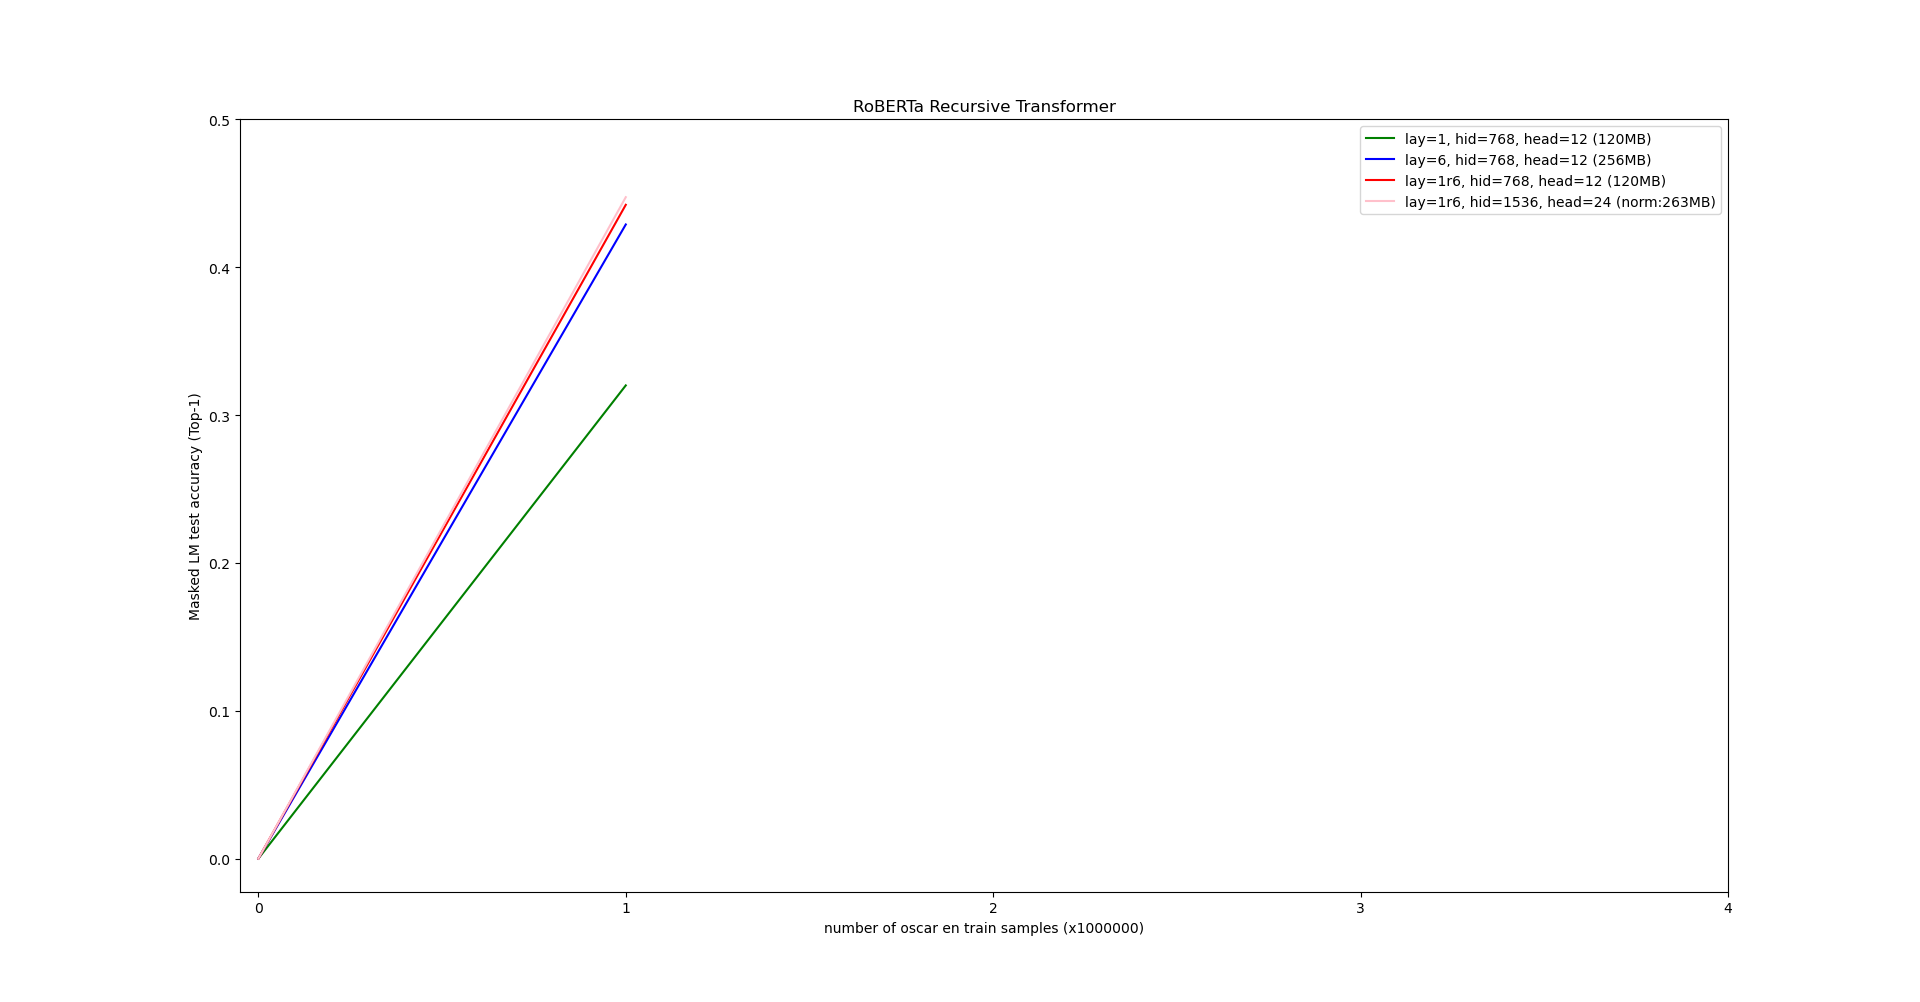
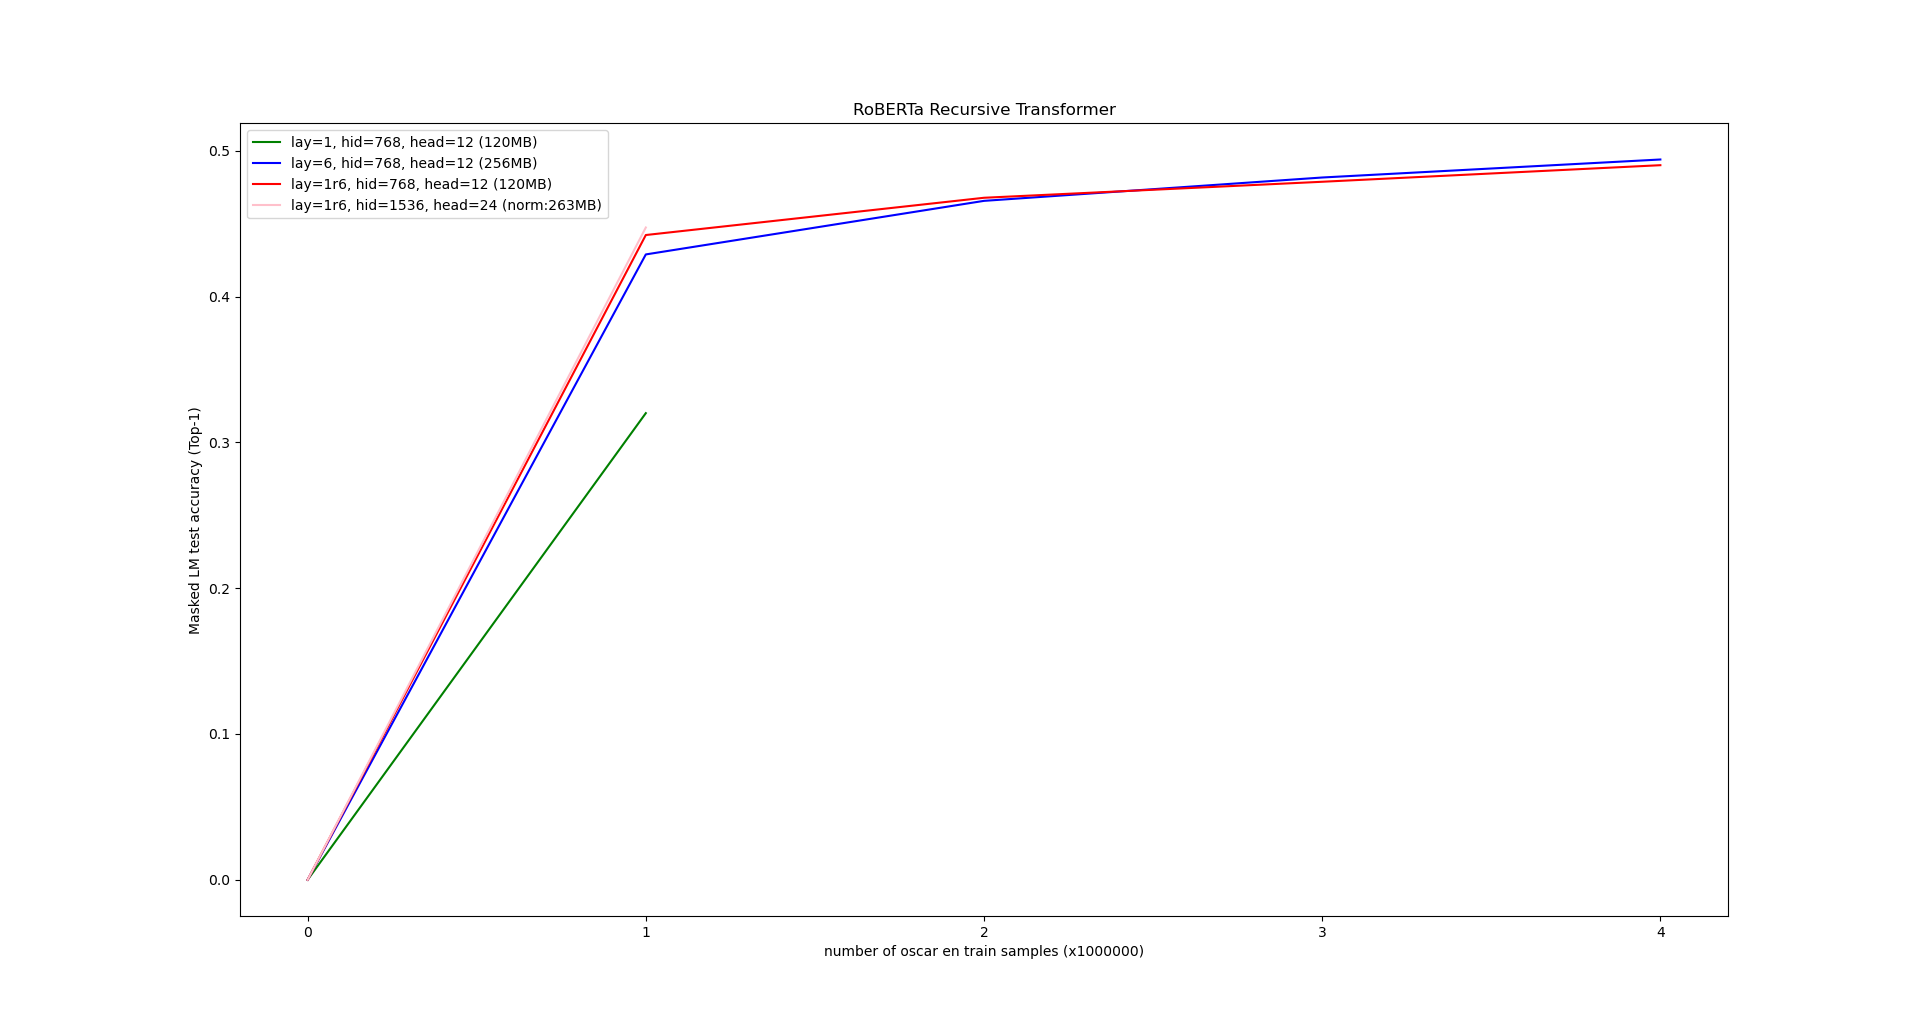
update RobertaRecursiveTransformer graph

diff --git a/SBNLPpt/SBNLPpt_globalDefs.py b/SBNLPpt/SBNLPpt_globalDefs.py
@@ -27,6 +27,29 @@ else:
 import math
 import pynvml
 
+
+#recursive algorithm selection:
+useAlgorithmTransformer = True
+useAlgorithmRNN = False
+useAlgorithmSANI = False
+useAlgorithmGIA = False
+
+#state selection;
+statePreprocessDataset = False	#only required once
+stateTrainTokeniser = False	#only required once
+stateTrainDataset = True
+stateTestDataset = True	#requires reserveValidationSet
+
+#training data selection;
+trainStartEpoch = 0	#start epoch of training (if continuing a training regime set accordingly >0)	#if trainStartEpoch=0 and trainStartDataFile=0 will recreate model, if trainStartEpoch>0 or trainStartDataFile>0 will load existing model
+trainNumberOfEpochs = 1	#default: 10	#number of epochs to train (for production typically train x epochs at a time)
+trainStartDataFile = 0	#default: 0	#start data file to train (if continuing a training regime set accordingly >0)	#if trainStartEpoch=0 and trainStartDataFile=0 will recreate model, if trainStartEpoch>0 or trainStartDataFile>0 will load existing model
+trainNumberOfDataFiles = 100	#15	#100	#number of data files to train (for production typically train x dataFiles at a time)	#< datasetNumberOfDataFiles (30424) * trainSplitFraction
+testNumberOfDataFiles = 1	#10
+
+
+sortDataFilesByName = True	#orig; False
+
 debugCompareTokenMemoryBankPerformance = False
 debugCreateOrderedDatasetFiles = False	#create data files comprising documents of sufficient length for createOrderedDataset
 debugPrintPaths = False
@@ -35,30 +58,11 @@ debugDoNotTrainModel = False
 debugPrintLowHiddenSize = False
 debugPrintMultipleModelAccuracy = False
 
-#recursive algorithm selection:
-useAlgorithmTransformer = True
-useAlgorithmRNN = False
-useAlgorithmSANI = False
-useAlgorithmGIA = False
-
-sortDataFilesByName = True	#orig; False
-
 #initialise (dependent vars);
 recursiveLayers = False
 memoryTraceBias = False
 simulatedDendriticBranches = False
 memoryTraceAtrophy = False
-
-statePreprocessDataset = False	#only required once
-stateTrainTokeniser = False	#only required once
-stateTrainDataset = True
-stateTestDataset = True	#requires reserveValidationSet
-
-trainStartEpoch = 0	#start epoch of training (if continuing a training regime set accordingly >0)	#if trainStartEpoch=0 and trainStartDataFile=0 will recreate model, if trainStartEpoch>0 or trainStartDataFile>0 will load existing model
-trainNumberOfEpochs = 1	#default: 10	#number of epochs to train (for production typically train x epochs at a time)
-trainStartDataFile = 0	#default: 0	#start data file to train (if continuing a training regime set accordingly >0)	#if trainStartEpoch=0 and trainStartDataFile=0 will recreate model, if trainStartEpoch>0 or trainStartDataFile>0 will load existing model
-trainNumberOfDataFiles = 100	#15	#100	#number of data files to train (for production typically train x dataFiles at a time)	#< datasetNumberOfDataFiles (30424) * trainSplitFraction
-testNumberOfDataFiles = 1	#10
 
 LRPdatabaseName = 'NLTK'	#wordnet
 fixNLTKwordListAll = True	#add additional auxiliary having possessive words not found in NLTK word lists; ["has", "having", "'s"]
@@ -398,7 +402,7 @@ trainSplitFraction = 0.9	#90% train data, 10% test data
 
 if(useAlgorithmTransformer):
 	batchSize = 8	#default: 8	#8 and 16 train at approx same rate (16 uses more GPU ram)	#depends on GPU RAM	#with 12GB GPU RAM, batchSize max = 16
-	learningRate = 1e-4
+	learningRate = 1e-4	#0.0001
 elif(useAlgorithmRNN):
 	batchSize = 8
 	learningRate = 1e-4

diff --git a/graph/RobertaRecursiveTransformer.py b/graph/RobertaRecursiveTransformer.py
@@ -3,8 +3,8 @@ import numpy as np
 
 x = np.array([0, 1, 2, 3, 4])
 y1 = np.array([0, 0.3200524007320404, np.nan, np.nan, np.nan])
-y2 = np.array([0, 0.42890446846485136, np.nan, np.nan, np.nan])
-y3 = np.array([0, 0.44220867459774016, np.nan, np.nan, np.nan])
+y2 = np.array([0, 0.42890446846485136, 0.4656440287351608, 0.48165937175750734, 0.4940115956068039])
+y3 = np.array([0, 0.44220867459774016, 0.4677618439912796, 0.4787390529155731, 0.49010481104850767])
 y4 = np.array([0, 0.4473719531536102, np.nan, np.nan, np.nan])
 
 l1, = plt.plot(x, y1, color='green', label='lay=1, hid=768, head=12 (120MB)')
